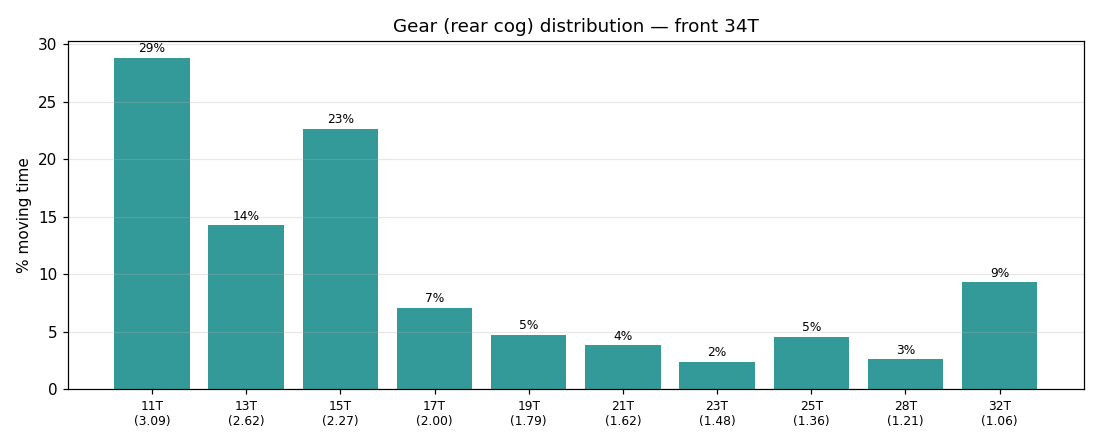
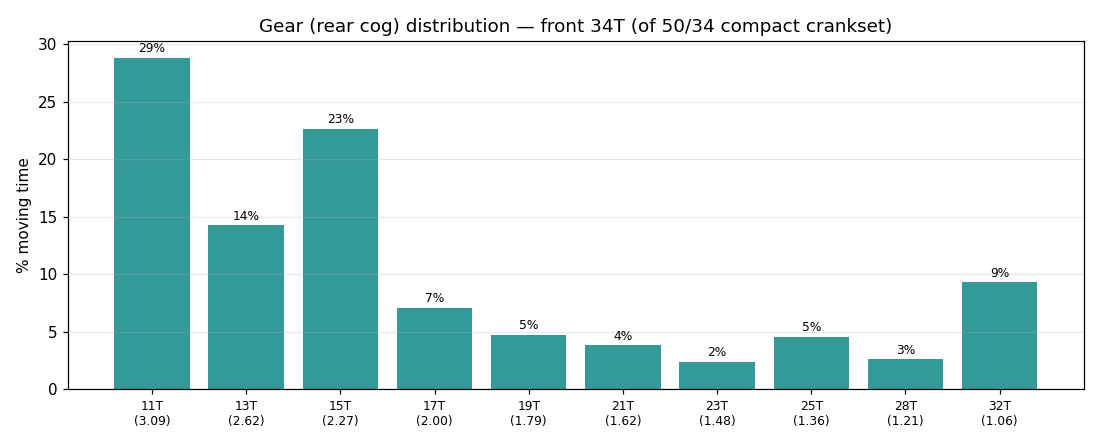
Add report: 20260426_1732_18271078752

Changed region(s): [[0.2473, 0.0295, 0.8036, 0.0886]]

diff --git a/rides/20260426_1732_18271078752/index.md b/rides/20260426_1732_18271078752/index.md
@@ -50,7 +50,7 @@ Longer than recent average (20.6 km). Slower pace than recent (-3.6 km/h).
 
 ![cadence × grade](cad_grade.png)
 
-## Gear selection (front: **34T**)
+## Gear selection — front **34T** (of 50/34 compact crankset)
 
 ![gear distribution](gear_dist.png)
 
@@ -102,4 +102,4 @@ LTHR assumed: **170 bpm** (configurable in `secrets/profile.json`).
 
 ---
 
-_Generated by bike-report. Bike: 2020 Allez Sport, **34T** × 11-32T (override via `#34T` or `#50T` in Strava description)._
+_Generated by bike-report. Bike: 2020 Allez Sport — Praxis Alba 50/34 compact, Shimano HG500 11-32T 10-spd. This ride analyzed assuming **34T** front. Override per-ride with `#34T` or `#50T` in Strava description._
